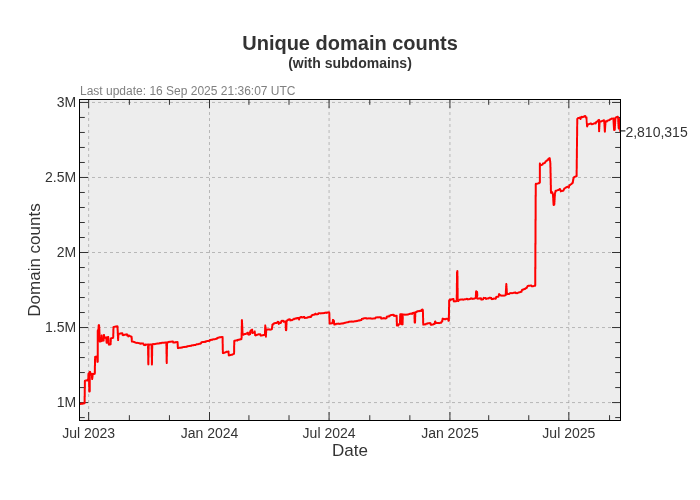
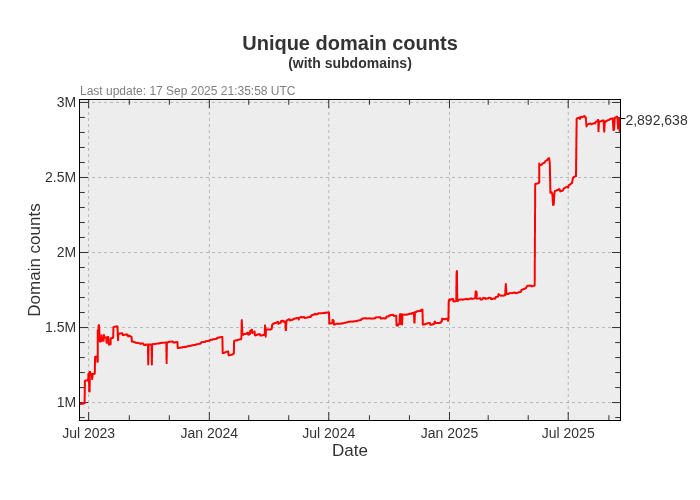
Update pages

diff --git a/README.md b/README.md
@@ -3,22 +3,22 @@ A blocklist file for blocking ads, trackers and malware domains.
 
[1 lines of base64/hex data omitted]
 
-- Unique domains: 2,810,315
-- Without subdomains: 2,144,773
-- Last update: 16 Sep 2025 21:36:07 UTC
-- Version: 2025.09.16.01
+- Unique domains: 2,892,638
+- Without subdomains: 2,217,714
+- Last update: 17 Sep 2025 21:35:58 UTC
+- Version: 2025.09.17.01
 
 
 ### Downloads:
 
 | Format             | Domain count      | Download Link |
 |:------------------ | -----------------:|:-------------:|
-| *Adblock Plus*     | 2,144,773 | [Download](https://dl.cenk.app/bad-hosts/bad-hosts-abp) |
-| *Wildcard domains* | 2,144,773 | [Download](https://dl.cenk.app/bad-hosts/bad-hosts-wildcard) |
-| *dnsmasq*          | 2,144,773 | [Download](https://dl.cenk.app/bad-hosts/bad-hosts-dnsmasq) |
-| *hosts*            | 2,810,315 | [Download](https://dl.cenk.app/bad-hosts/hosts) |
-| *hosts (ipv6)*     | 2,810,315 | [Download](https://dl.cenk.app/bad-hosts/hosts-ipv6) |
-| *Plain domains*    | 2,810,315 | [Download](https://dl.cenk.app/bad-hosts/bad-hosts-domains) |
+| *Adblock Plus*     | 2,217,714 | [Download](https://dl.cenk.app/bad-hosts/bad-hosts-abp) |
+| *Wildcard domains* | 2,217,714 | [Download](https://dl.cenk.app/bad-hosts/bad-hosts-wildcard) |
+| *dnsmasq*          | 2,217,714 | [Download](https://dl.cenk.app/bad-hosts/bad-hosts-dnsmasq) |
+| *hosts*            | 2,892,638 | [Download](https://dl.cenk.app/bad-hosts/hosts) |
+| *hosts (ipv6)*     | 2,892,638 | [Download](https://dl.cenk.app/bad-hosts/hosts-ipv6) |
+| *Plain domains*    | 2,892,638 | [Download](https://dl.cenk.app/bad-hosts/bad-hosts-domains) |
 
 ### Domain count history
 #### With subdomains
